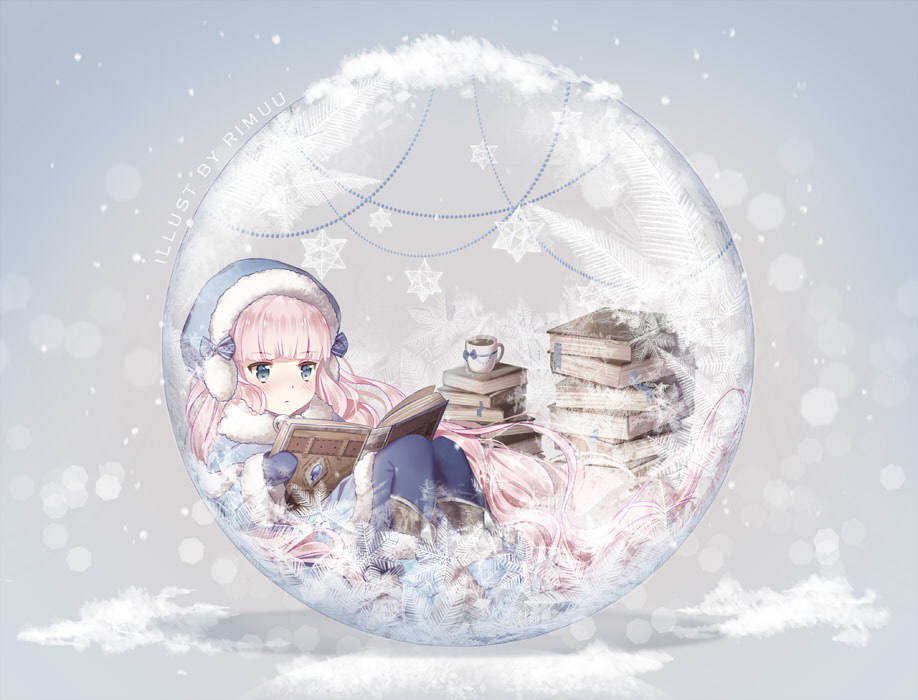
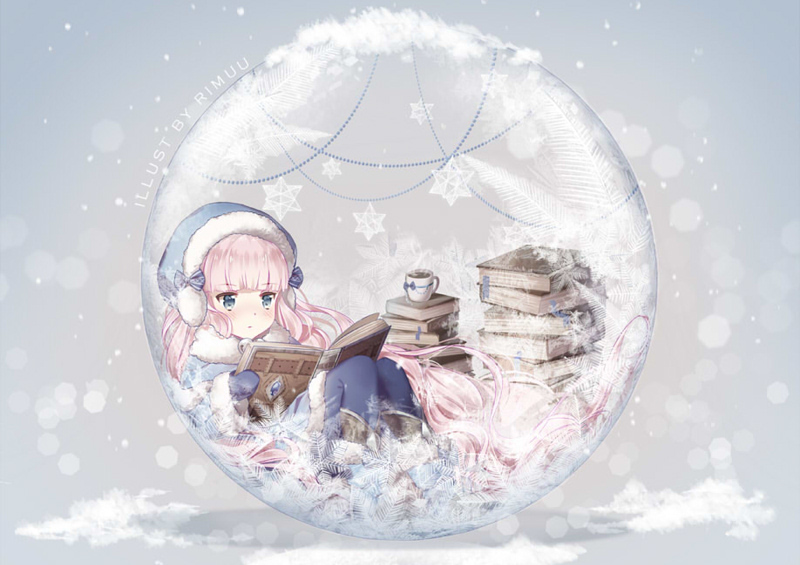
fix

diff --git a/index.html b/index.html
@@ -155,8 +155,8 @@
 						<img src="img/breeze-thumb.jpg" alt="">
 					</a>
 					
-					<a href="img/elan3.png" data-rel="lightcase:gallery" title="Character Illustration for Studio Élan">
-						<img src="img/elan3-thumb.jpg" alt="">
+					<a href="img/Elan3.png" data-rel="lightcase:gallery" title="Character Illustration for Studio Élan">
+						<img src="img/Elan3-thumb.jpg" alt="">
 					</a>
 					
 				

diff --git a/personal-art.html b/personal-art.html
@@ -223,7 +223,7 @@
 					</a>
 					
 					<a href="img/winter.png" data-rel="lightcase:gallery" title="Original art">
-						<img class="lazyload" src="img/blank/495x700.gif" data-src="img/winter-thumb.jpg" alt="">
+						<img class="lazyload" src="img/blank/800x565.gif" data-src="img/winter-thumb.jpg" alt="">
 					</a>
 					
 					
